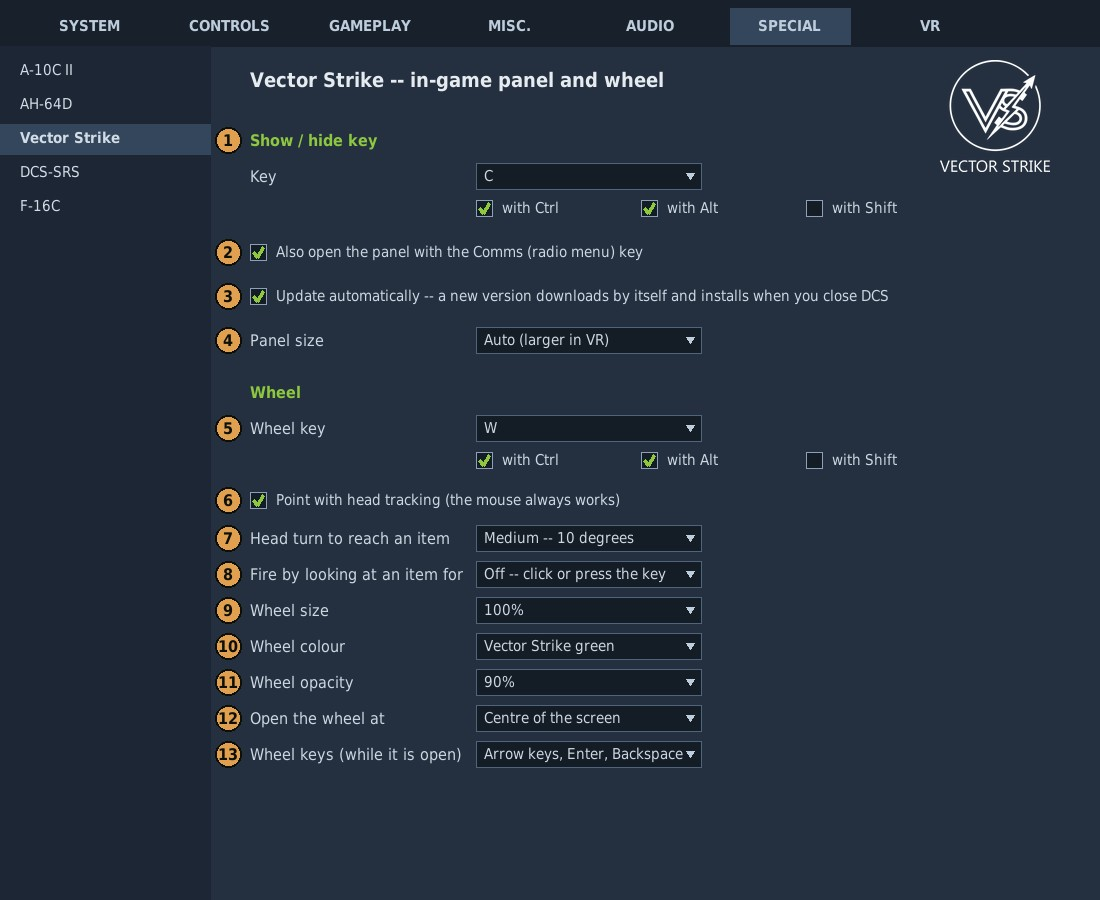
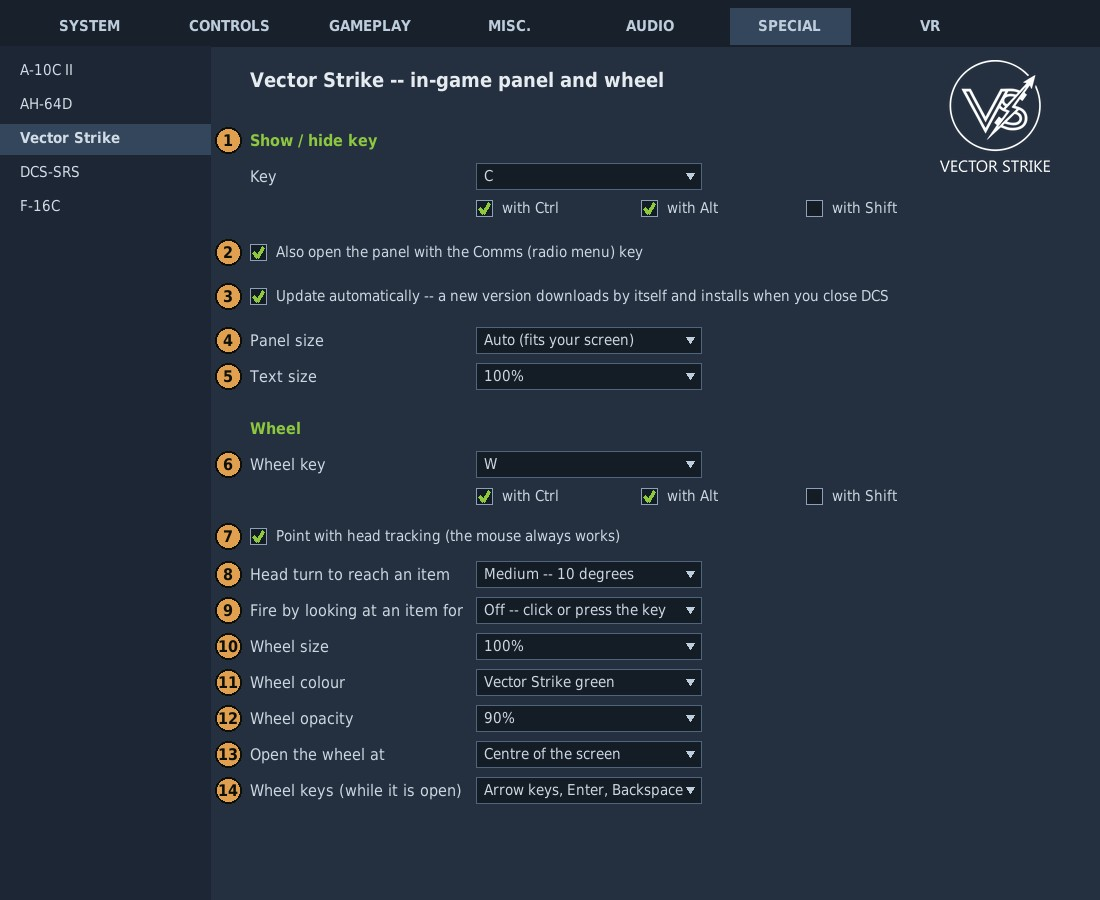
cockpit 3.3: smaller panel and text for small screens
Panel size now goes down to 60% (60/70/80/90% added), and a new Text size
setting (70-130%) changes just the writing. The window itself grows and
shrinks with Panel size instead of keeping its remembered pixel size. Auto
picks 80% on screens under 820 px tall and 90% under 1000. Wheel size gains
60% and 70%. Wiki settings table and picture updated.

diff --git a/bfcockpit/tools/wikipreviews.py b/bfcockpit/tools/wikipreviews.py
@@ -437,7 +437,8 @@ def settings_page(out):
     check(CX, y, "with Ctrl"); check(CX + 165, y, "with Alt"); check(CX + 330, y, "with Shift", False); y += 44
     check(X, y, "Also open the panel with the Comms (radio menu) key"); items.append(y); y += 44
     check(X, y, "Update automatically -- a new version downloads by itself and installs when you close DCS"); items.append(y); y += 44
-    lab(X, y, "Panel size"); combo(CX, y, "Auto (larger in VR)"); items.append(y); y += 52
+    lab(X, y, "Panel size"); combo(CX, y, "Auto (fits your screen)"); items.append(y); y += 36
+    lab(X, y, "Text size"); combo(CX, y, "100%"); items.append(y); y += 52
     lab(X, y, "Wheel", 13, (142, 200, 63), True); y += 36
     lab(X, y, "Wheel key"); combo(CX, y, "W"); items.append(y); y += 32
     check(CX, y, "with Ctrl"); check(CX + 165, y, "with Alt"); check(CX + 330, y, "with Shift", False); y += 40

diff --git a/bfdb/seed_wiki/getting-started/cockpit-overlay.md b/bfdb/seed_wiki/getting-started/cockpit-overlay.md
@@ -263,16 +263,17 @@ within a few seconds, even in the middle of a mission.
 | 1 | **Show / hide key** | Ctrl+Alt+C | The key that opens and closes the panel from anywhere. Pick any letter, digit, F1–F12, numpad digit, Insert, Delete, Home, End or Pause, with any of Ctrl / Alt / Shift. Choose a combination none of your aircraft use. |
 | 2 | **Also open with the Comms key** | on | The panel also opens when you open the radio menu, so the key you already use for campaign things gets you there. |
 | 3 | **Update automatically** | on | When the server has a newer version, it downloads in the background and installs when you close DCS. Untick it to update by hand; the panel then tells you when there's a new version. |
-| 4 | **Panel size** | Auto | How big the panel's text and buttons are. Auto is 100% on a monitor and 135% in VR. |
-| 5 | **Wheel key** | Ctrl+Alt+W | The key that opens the wheel, and (tapped again) fires what you're pointing at. |
-| 6 | **Point with head tracking** | on | Turn off if you only want the mouse to point, e.g. if your head moves the pointer when you don't mean it to. |
-| 7 | **Head turn to reach an item** | Medium (10°) | How far you turn your head to reach the ring; the outer arc is twice that. Short suits TrackIR with high curves, Long suits VR or relaxed head movement. |
-| 8 | **Fire by looking at an item** | Off | Fire an item just by looking at it for 0.8–2 seconds — fully hands-free. Off by default so a glance never fires anything. |
-| 9 | **Wheel size** | 100% | How big the wheel is (80–150%). |
-| 10 | **Wheel colour** | Vector Strike green | Green, blue, amber, red or white. |
-| 11 | **Wheel opacity** | 90% | How see-through the wheel's segments are. |
-| 12 | **Open the wheel at** | Centre of the screen | Or **where the mouse is**. In VR it always opens where you're looking. |
-| 13 | **Wheel keys (while it is open)** | Arrow keys, Enter, Backspace | Drive the wheel with keys only — see [Keys only](#keys-only-no-mouse-no-head-tracking). Choose the arrows, the numpad, Ctrl+Alt + arrows, or Off. |
+| 4 | **Panel size** | Auto | How big the whole panel is: the window, its buttons and its text, from 60% to 200%. On a small screen or a laptop, try 70–80%. Auto picks 80% on screens under 820 pixels tall, 90% under 1000, 100% on anything bigger and 135% in VR. |
+| 5 | **Text size** | 100% | Just the writing, from 70% to 130%, without changing the layout. Make it smaller to fit more on a small panel, or bigger if it's hard to read. |
+| 6 | **Wheel key** | Ctrl+Alt+W | The key that opens the wheel, and (tapped again) fires what you're pointing at. |
+| 7 | **Point with head tracking** | on | Turn off if you only want the mouse to point, e.g. if your head moves the pointer when you don't mean it to. |
+| 8 | **Head turn to reach an item** | Medium (10°) | How far you turn your head to reach the ring; the outer arc is twice that. Short suits TrackIR with high curves, Long suits VR or relaxed head movement. |
+| 9 | **Fire by looking at an item** | Off | Fire an item just by looking at it for 0.8–2 seconds — fully hands-free. Off by default so a glance never fires anything. |
+| 10 | **Wheel size** | 100% | How big the wheel is (60–150%). On a small screen, try 60–70%. |
+| 11 | **Wheel colour** | Vector Strike green | Green, blue, amber, red or white. |
+| 12 | **Wheel opacity** | 90% | How see-through the wheel's segments are. |
+| 13 | **Open the wheel at** | Centre of the screen | Or **where the mouse is**. In VR it always opens where you're looking. |
+| 14 | **Wheel keys (while it is open)** | Arrow keys, Enter, Backspace | Drive the wheel with keys only — see [Keys only](#keys-only-no-mouse-no-head-tracking). Choose the arrows, the numpad, Ctrl+Alt + arrows, or Off. |
 
 **HOTAS buttons:** DCS doesn't let add-ons add their own entry to the
 **Controls** page, so to open the panel or wheel — or drive the wheel — from
